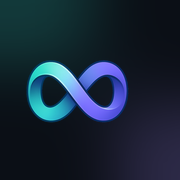
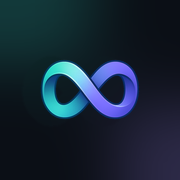
Fix the studio logomark estate for launch
logo.png was a sloppy crop of brand/logomark-source.png — 333x372 with the
mark filling 63% x 34% of it, off-center left. Every consumer contain-fits
it, so the header/footer/press/quietoak marks all rendered at roughly half
their box and mushy. Re-derived from the source: trimmed to ink, centered,
216x144 (exact 3:2, 2x the largest 72px render). Width/height attrs synced
on press/support/terms/privacy (30x20) and quietoak's footer (33x22, whose
fixed CSS box also gains object-fit so the new aspect cannot distort).

favicon.png and apple-touch-icon.png carried the same inherited flaw: the
mark sat 8.6% / 7.2% left of center in its tile. Rebuilt both — background
reconstructed under the old mark (cubic 2D fit, mark-shaped mask, feathered),
source mark recomposited dead center at the same ink size. favicon.ico added
(16/32/48) for blind /favicon.ico requesters, which 404 today.

build_og.py: the card hardcoded the retired 'Hypersage' spelling (dc06953
fixed the pages but pixels regenerate it); NAMES gains Holohound/Hoardling/
Gemburrow so the card can be rebuilt at all — the live card still lists 12
products and --check has been failing; and the inputs digest now includes
logo.png's bytes so a swapped mark reads as stale instead of passing. The
og-image.png rebuild itself ships with the concurrent homepage rework (it
photographs the hero), together with the ?v bump on all five pages.

press.html's studio-mark download now hands out the 512px source instead of
[…]

Changed region(s): [[0.1389, 0.3333, 0.7778, 0.6944]]

diff --git a/quietoak/index.html b/quietoak/index.html
@@ -142,7 +142,7 @@
       color: var(--fg); font-weight: 700; text-decoration: none;
       padding: 6px 2px; border-radius: 8px;
     }
-    .studio-mark img { width: 20px; height: 22px; opacity: .9; }
+    .studio-mark img { width: 20px; height: 14px; object-fit: contain; opacity: .9; }
     .studio-mark .sm-sub { color: var(--tertiary-fg); font-weight: 500; }
     .studio-mark:hover .sm-name { text-decoration: underline; text-underline-offset: 3px; }
     .studio-mark:focus-visible { outline: 2px solid var(--primary); outline-offset: 3px; }
@@ -1626,7 +1626,7 @@
     <div class="copyright">
       <a class="studio-mark" href="https://hypersage.ai/" target="_blank" rel="noopener"
          aria-label="Quietoak is made by HyperSage AI Labs — visit hypersage.ai">
-        <img src="/logo.png" alt="" width="34" height="38" loading="lazy">
+        <img src="/logo.png" alt="" width="33" height="22" loading="lazy">
         <span><span class="sm-name">HyperSage</span><span class="sm-sub"> AI Labs</span></span>
       </a>
     </div>

diff --git a/press.html b/press.html
@@ -41,7 +41,7 @@
   <nav class="legal-nav">
     <div class="container">
       <a href="index.html" class="brand">
-        <img src="logo.png" alt="" width="30" height="34">
+        <img src="logo.png" alt="" width="30" height="20">
         <span>HyperSage<span class="co-sub"> AI Labs</span></span>
       </a>
       <div class="links">
@@ -92,7 +92,7 @@
 
     <h2>Logos &amp; key art</h2>
     <ul class="asset-grid" role="list">
-      <li><img src="logo.png" alt="HyperSage mark"><a href="logo.png" download>Studio mark (PNG)</a></li>
+      <li><img src="logo.png" alt="HyperSage mark"><a href="brand/logomark-source.png" download>Studio mark 512×512 (PNG)</a></li>
       <li><img src="apple-touch-icon.png" alt="HyperSage app icon"><a href="apple-touch-icon.png" download>Icon 180×180 (PNG)</a></li>
       <li><img src="og-image.png" alt="HyperSage key art" style="width:100%;height:56px;object-fit:cover;"><a href="og-image.png" download>Key art 1200×630 (PNG)</a></li>
     </ul>

diff --git a/privacy.html b/privacy.html
@@ -34,7 +34,7 @@
   <nav class="legal-nav">
     <div class="container">
       <a href="index.html" class="brand">
-        <img src="logo.png" alt="" width="30" height="34">
+        <img src="logo.png" alt="" width="30" height="20">
         <span>HyperSage<span class="co-sub"> AI Labs</span></span>
       </a>
       <div class="links">

diff --git a/support.html b/support.html
@@ -33,7 +33,7 @@
   <nav class="legal-nav">
     <div class="container">
       <a href="index.html" class="brand">
-        <img src="logo.png" alt="" width="30" height="34">
+        <img src="logo.png" alt="" width="30" height="20">
         <span>HyperSage<span class="co-sub"> AI Labs</span></span>
       </a>
       <div class="links">

diff --git a/terms.html b/terms.html
@@ -33,7 +33,7 @@
   <nav class="legal-nav">
     <div class="container">
       <a href="index.html" class="brand">
-        <img src="logo.png" alt="" width="30" height="34">
+        <img src="logo.png" alt="" width="30" height="20">
         <span>HyperSage<span class="co-sub"> AI Labs</span></span>
       </a>
       <div class="links">

diff --git a/tools/build_og.py b/tools/build_og.py
@@ -43,6 +43,7 @@ NAMES = {
     "saffra": "Saffra", "storyvault": "StoryVault", "nightshelf": "Nightshelf",
     "hexhunter": "Hexhunter", "mythwright": "Mythwright", "rowan": "Rowan",
     "alder": "Alder", "waddleton": "Waddleton", "mythkin": "Mythkin",
+    "holohound": "Holohound", "hoardling": "Hoardling", "gemburrow": "Gemburrow",
 }
 
 
@@ -112,7 +113,7 @@ def build_html() -> str:
   <div class="og-left">
     <div class="og-brand">
       <img src="logo.png" alt="">
-      <div><div class="t1">Independent Product Studio</div><div class="t2">Hypersage AI Labs</div></div>
+      <div><div class="t1">Independent Product Studio</div><div class="t2">HyperSage AI Labs</div></div>
     </div>
     <h1>Software with<br><span class="grad">a point of view.</span></h1>
     <div class="rule"></div>
@@ -145,6 +146,9 @@ def inputs_digest() -> str:
     for part in (style, figure, "\n".join(products), h1, ogt.group(1) if ogt else ""):
         h.update(part.encode())
         h.update(b"\0")
+    # The brand mark is pixels in the card; a swapped logo.png must read as stale.
+    h.update((ROOT / "logo.png").read_bytes())
+    h.update(b"\0")
     return h.hexdigest()
 
 
